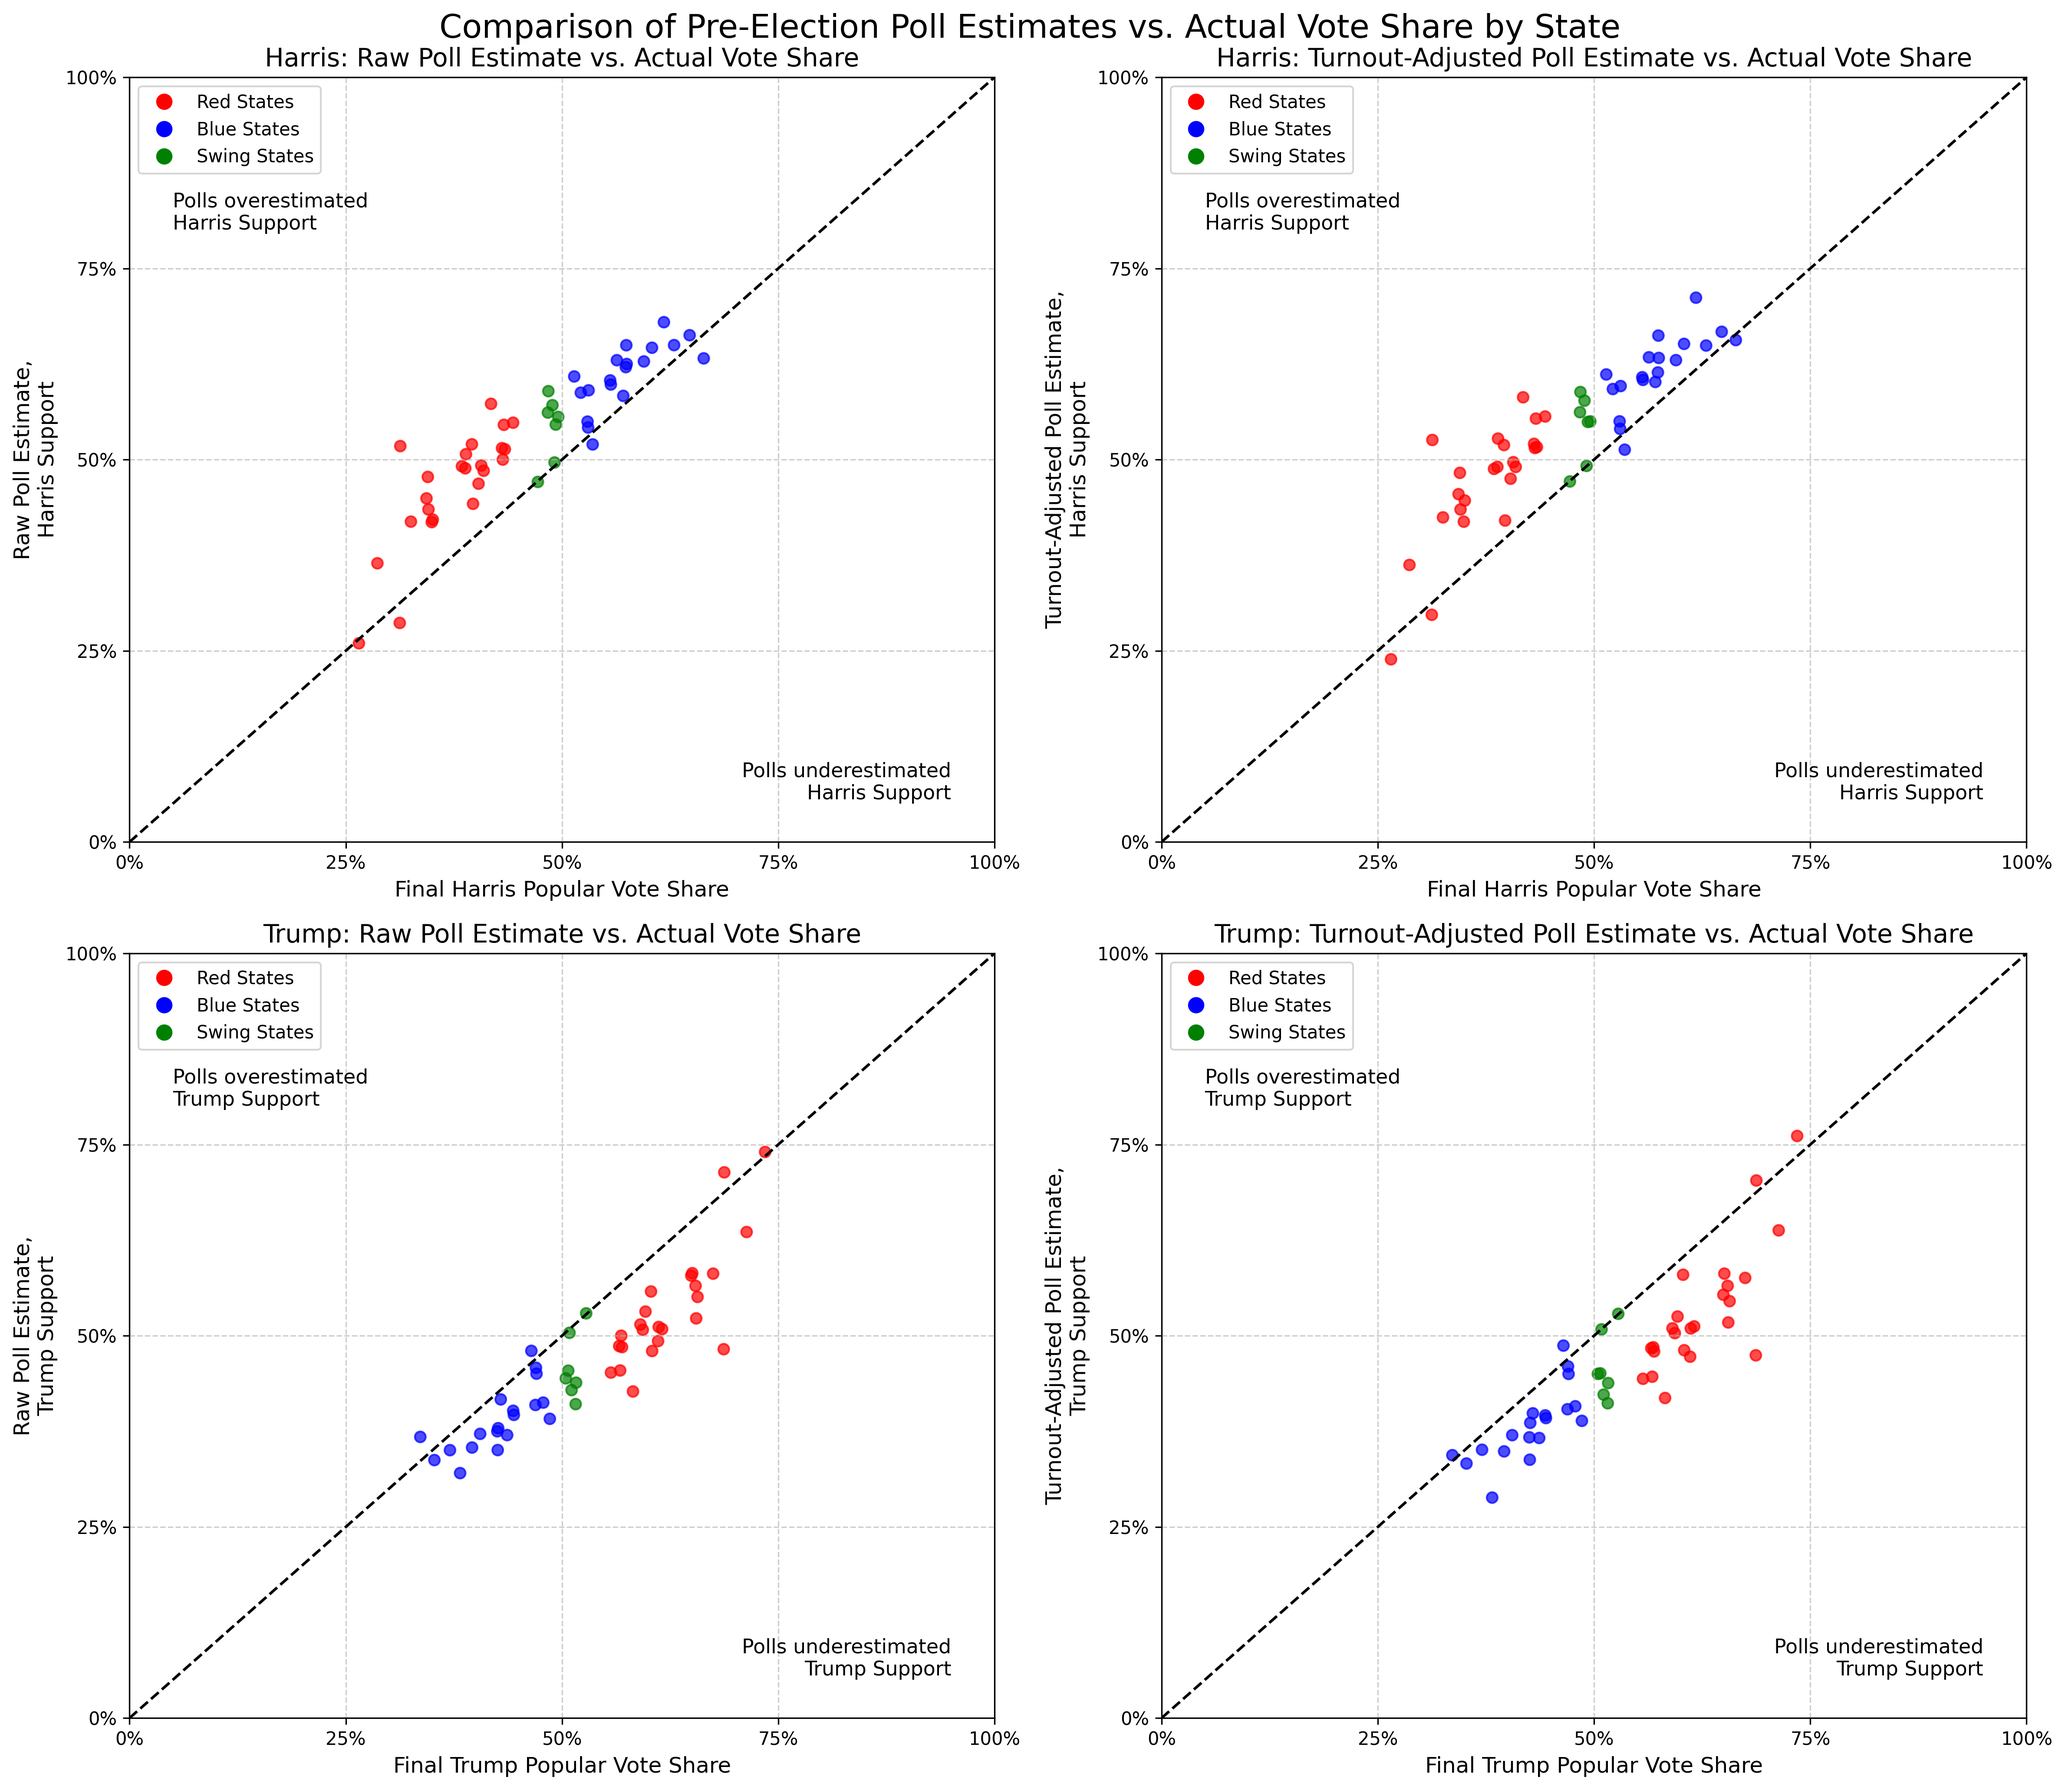
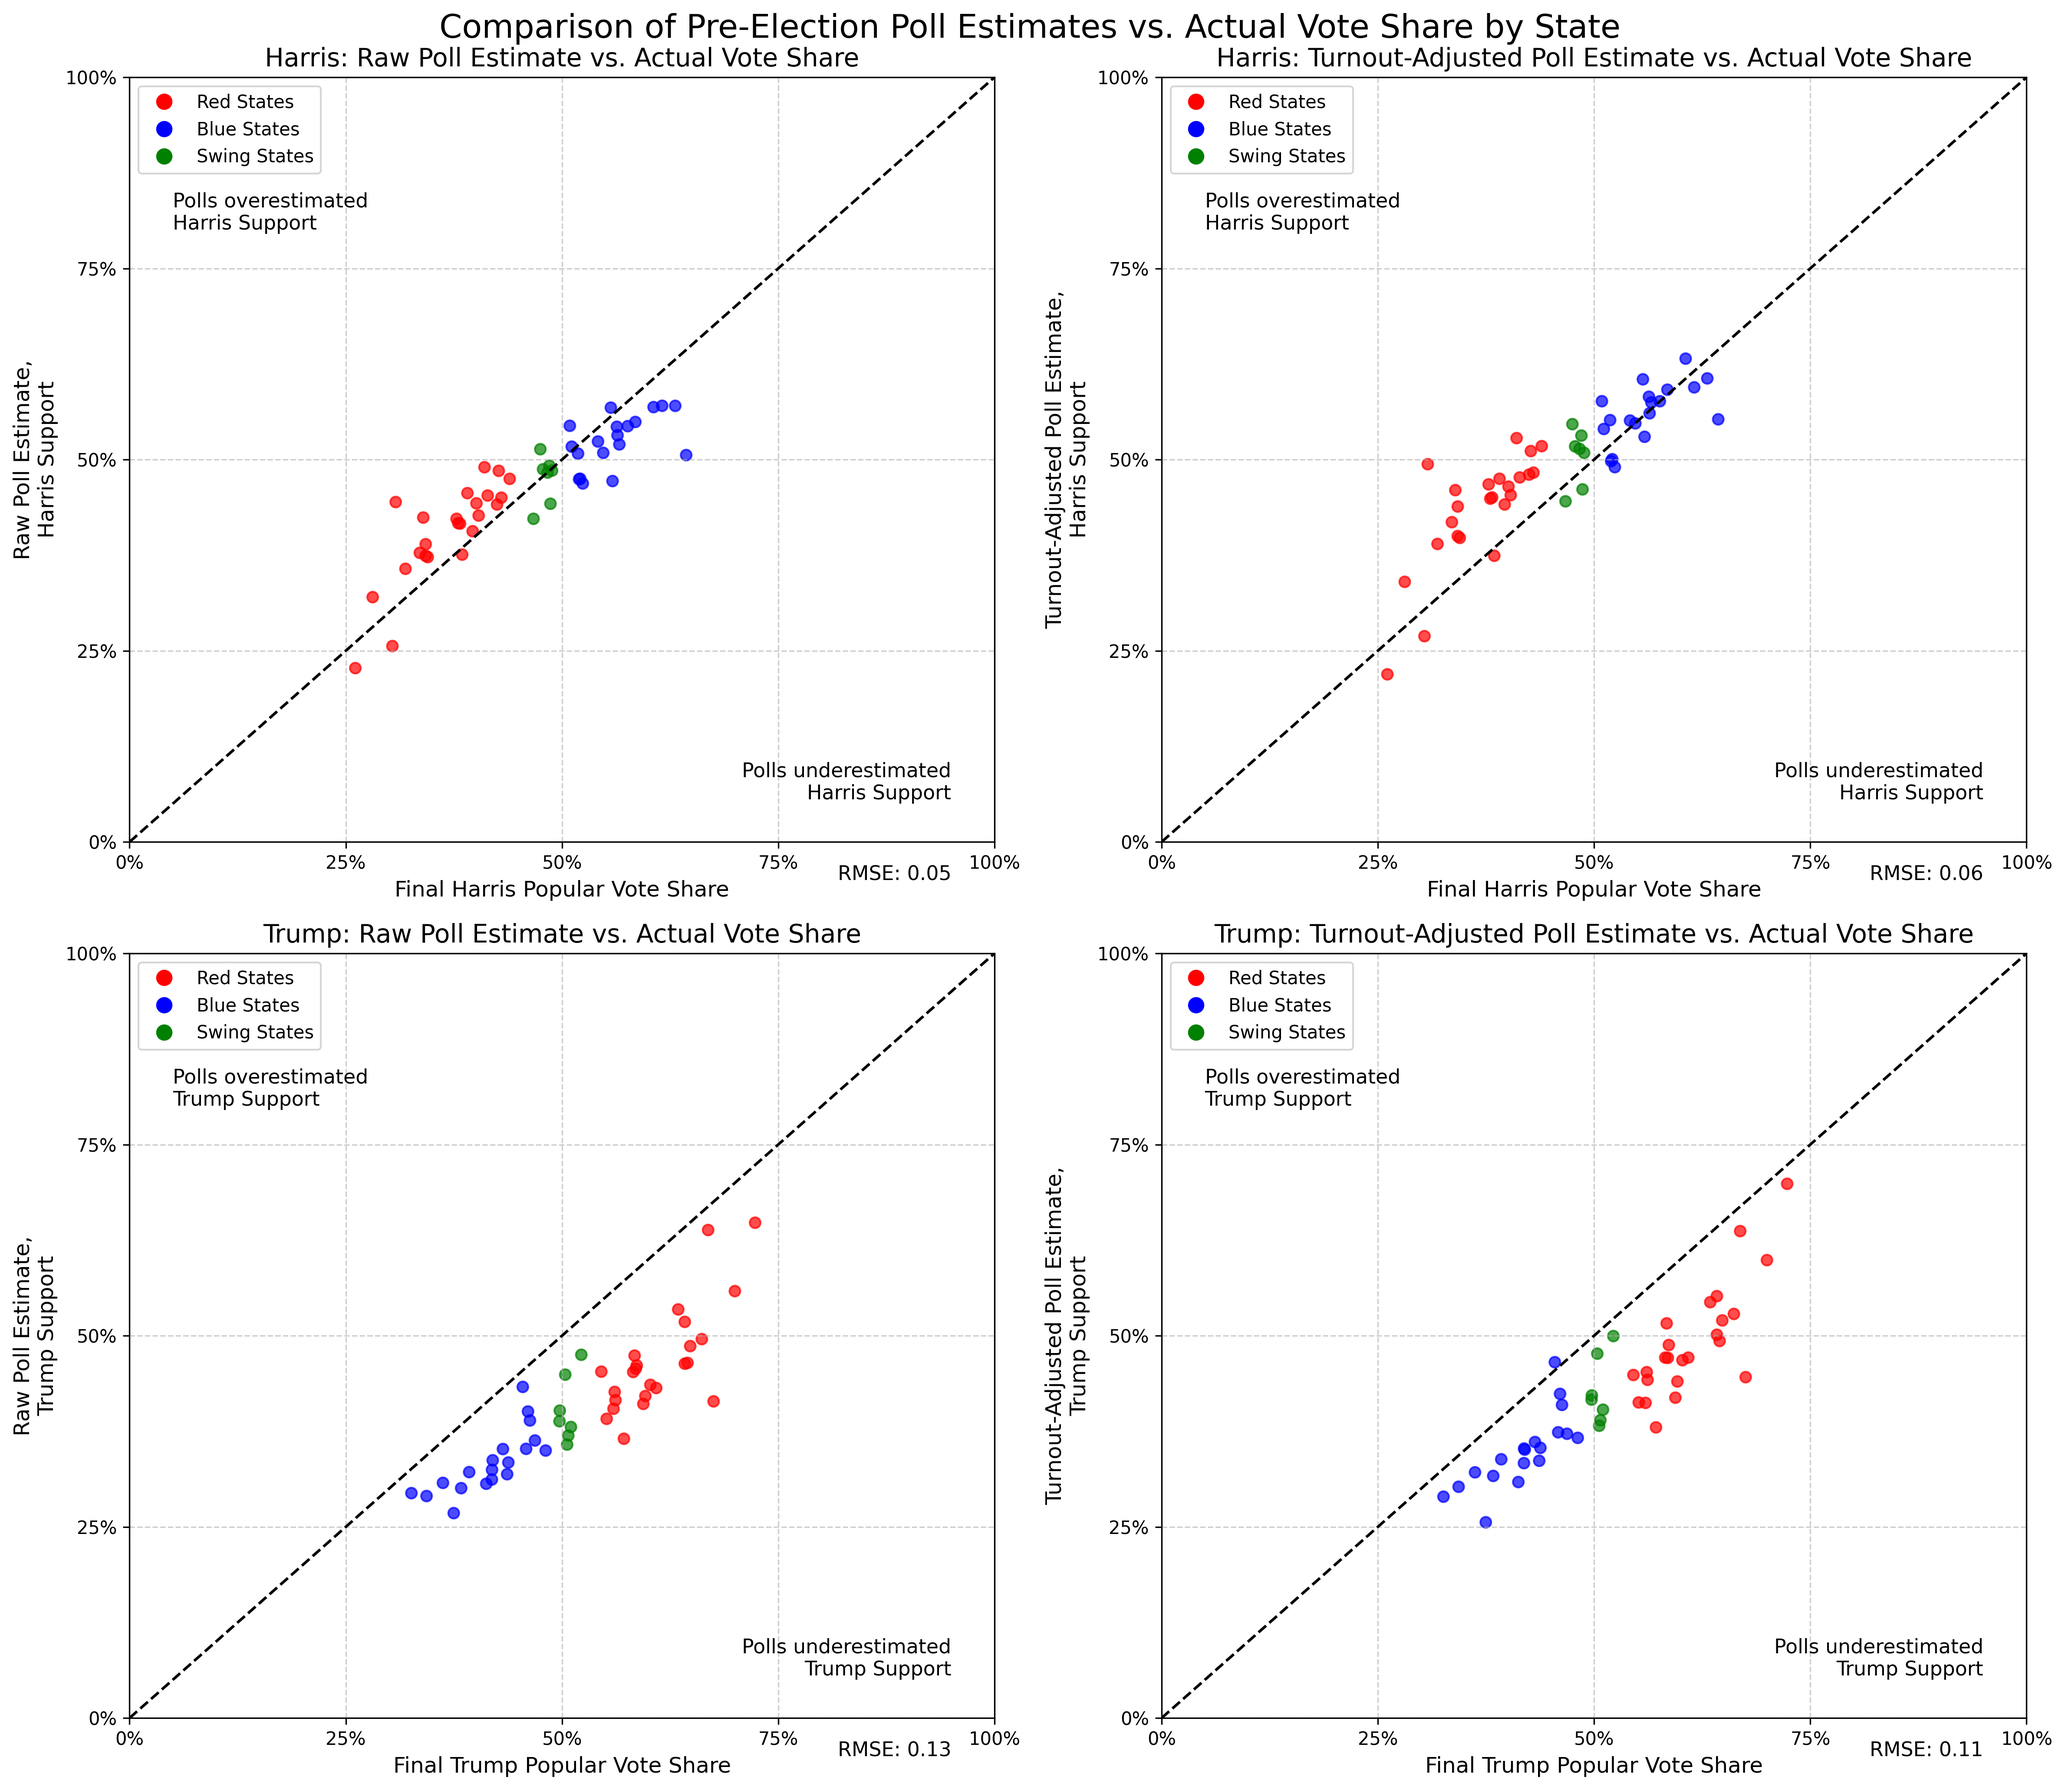
general instead of two-party shares for fig 4

diff --git a/src/figure_4.py b/src/figure_4.py
@@ -1,7 +1,7 @@
 # the goal of this file is to generate 4 plots. 2 for each candidate.
 # for each candidate, we plot the actual popularity of the candidate to the polled popularity of the candidate
 # it is a scatter plot, where each dot is a state
-# the actual popularity of the candidate is the actual two-party vote share of the candidate.
+# the actual popularity of the candidate is the actual vote share of the candidate (including third parties).
 # this data is at ../data/2024_us_election_results_by_state.csv
 # the polled popularity of the candidate is from ../data/CES24_Common.csv (pre-election data only)
 
@@ -33,8 +33,7 @@ election_df: pd.DataFrame = pd.read_csv(election_results_path)
 classification_path: str = "../data/State-Pre-ElectionClassification.csv"
 classification_df: pd.DataFrame = pd.read_csv(classification_path)
 
-# Calculate the two-party vote share for each candidate
-election_df["total_votes"] = election_df["trump_votes"] + election_df["harris_votes"]
+# Calculate the actual vote share for each candidate (including third parties)
 election_df["trump_share"] = election_df["trump_votes"] / election_df["total_votes"]
 election_df["harris_share"] = election_df["harris_votes"] / election_df["total_votes"]
 
@@ -64,9 +63,7 @@ def get_harris_preference(code: Optional[Union[int, float]]) -> Optional[float]:
         return np.nan
     if code == 1:  # Harris
         return 1.0
-    elif code == 2:  # Trump
-        return 0.0
-    return np.nan
+    return 0.0 # anything else
 
 def get_trump_preference(code: Optional[Union[int, float]]) -> Optional[float]:
     """
@@ -82,9 +79,7 @@ def get_trump_preference(code: Optional[Union[int, float]]) -> Optional[float]:
         return np.nan
     if code == 2:  # Trump
         return 1.0
-    elif code == 1:  # Harris
-        return 0.0
-    return np.nan
+    return 0.0 # anything else
 
 poll_df['harris_preference'] = poll_df['CC24_364b'].apply(get_harris_preference)
 poll_df['trump_preference'] = poll_df['CC24_364b'].apply(get_trump_preference)
@@ -227,6 +222,13 @@ def create_scatter(
     ax.text(0.95, 0.05, f"Polls underestimated\n{candidate} Support", transform=ax.transAxes, 
             fontsize=11, horizontalalignment='right', verticalalignment='bottom')
 
+    # Calculate and display Root Mean Squared Error (RMSE)
+    rmse = np.sqrt(np.mean((x - y) ** 2))
+    # Position the RMSE text below the x-axis label at the bottom right
+    ax.text(0.95, -0.05, f"RMSE: {rmse:.2f}", 
+            transform=ax.transAxes,
+            fontsize=11, horizontalalignment='right')
+
     # Add gridlines
     ax.grid(True, linestyle="--", alpha=0.6)
     
@@ -242,7 +244,7 @@ def create_scatter(
 # Harris plots (now first)
 create_scatter(
     axes[0, 0],
-    merged_all["harris_share"],  # x-axis is now the actual vote share
+    merged_all["harris_share"],  # x-axis is now the actual vote share (including third parties)
     merged_all["harris_poll_all"],  # y-axis is now the poll estimate
     "Harris: Raw Poll Estimate vs. Actual Vote Share",
     "Final Harris Popular Vote Share",
@@ -254,7 +256,7 @@ create_scatter(
 
 create_scatter(
     axes[0, 1],
-    merged_likely["harris_share"],  # x-axis is now the actual vote share
+    merged_likely["harris_share"],  # x-axis is now the actual vote share (including third parties)
     merged_likely["harris_poll_likely"],  # y-axis is now the poll estimate
     "Harris: Turnout-Adjusted Poll Estimate vs. Actual Vote Share",
     "Final Harris Popular Vote Share",
@@ -267,7 +269,7 @@ create_scatter(
 # Trump plots (now second)
 create_scatter(
     axes[1, 0],
-    merged_all["trump_share"],  # x-axis is now the actual vote share
+    merged_all["trump_share"],  # x-axis is now the actual vote share (including third parties)
     merged_all["trump_poll_all"],  # y-axis is now the poll estimate
     "Trump: Raw Poll Estimate vs. Actual Vote Share",
     "Final Trump Popular Vote Share",
@@ -279,7 +281,7 @@ create_scatter(
 
 create_scatter(
     axes[1, 1],
-    merged_likely["trump_share"],  # x-axis is now the actual vote share
+    merged_likely["trump_share"],  # x-axis is now the actual vote share (including third parties)
     merged_likely["trump_poll_likely"],  # y-axis is now the poll estimate
     "Trump: Turnout-Adjusted Poll Estimate vs. Actual Vote Share",
     "Final Trump Popular Vote Share",
